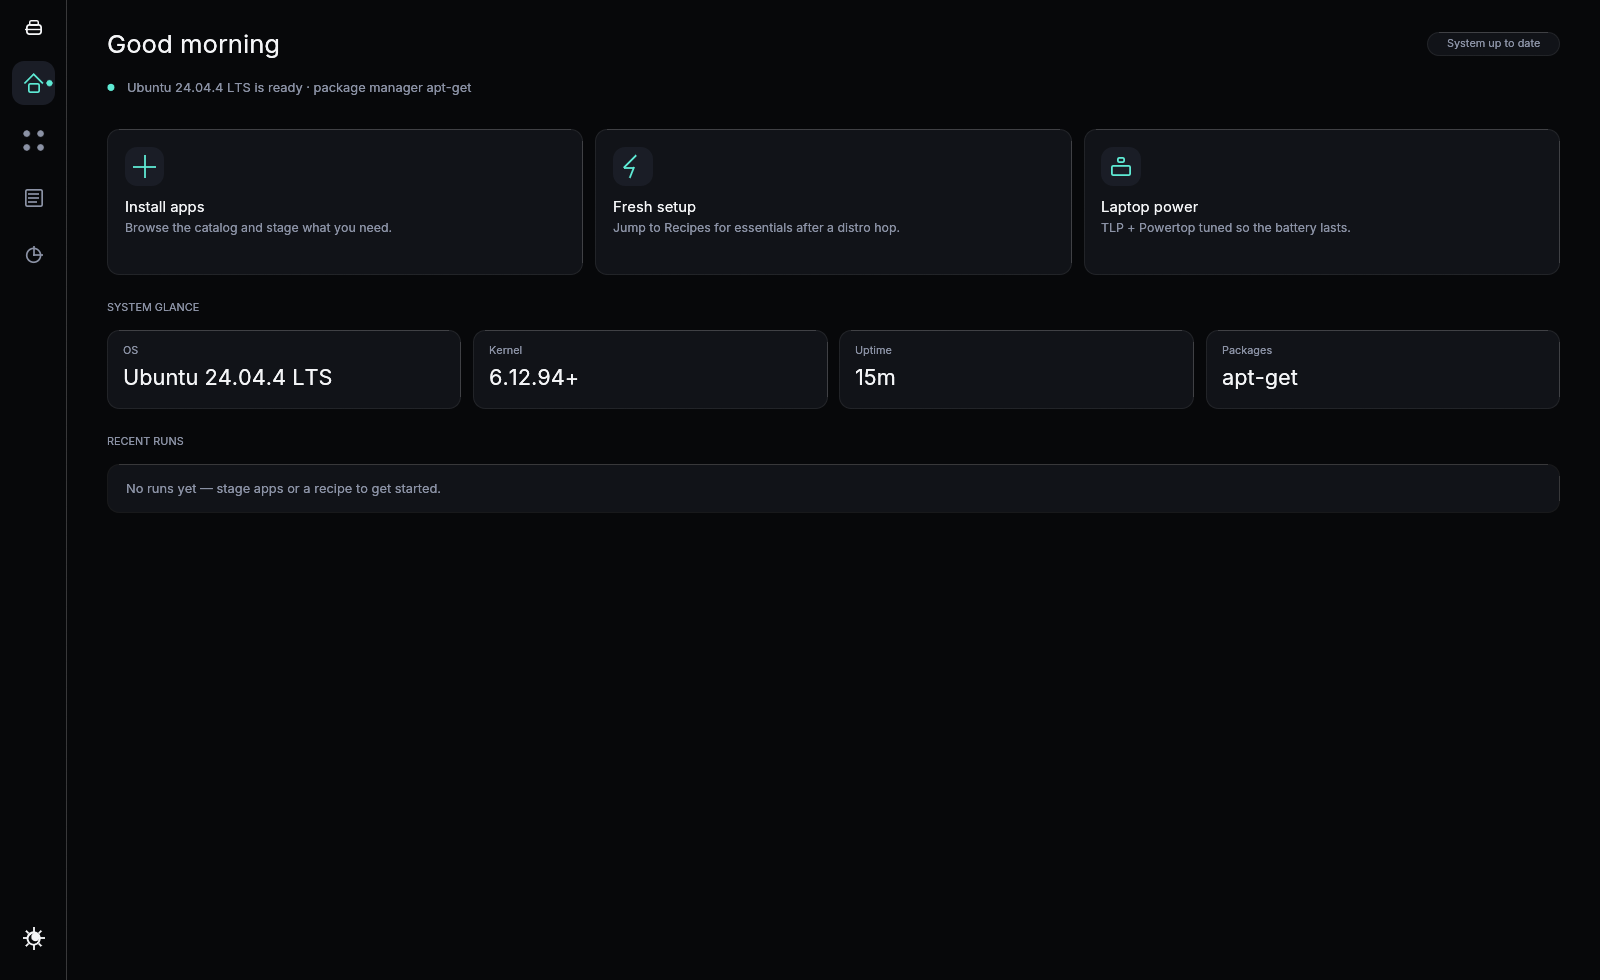
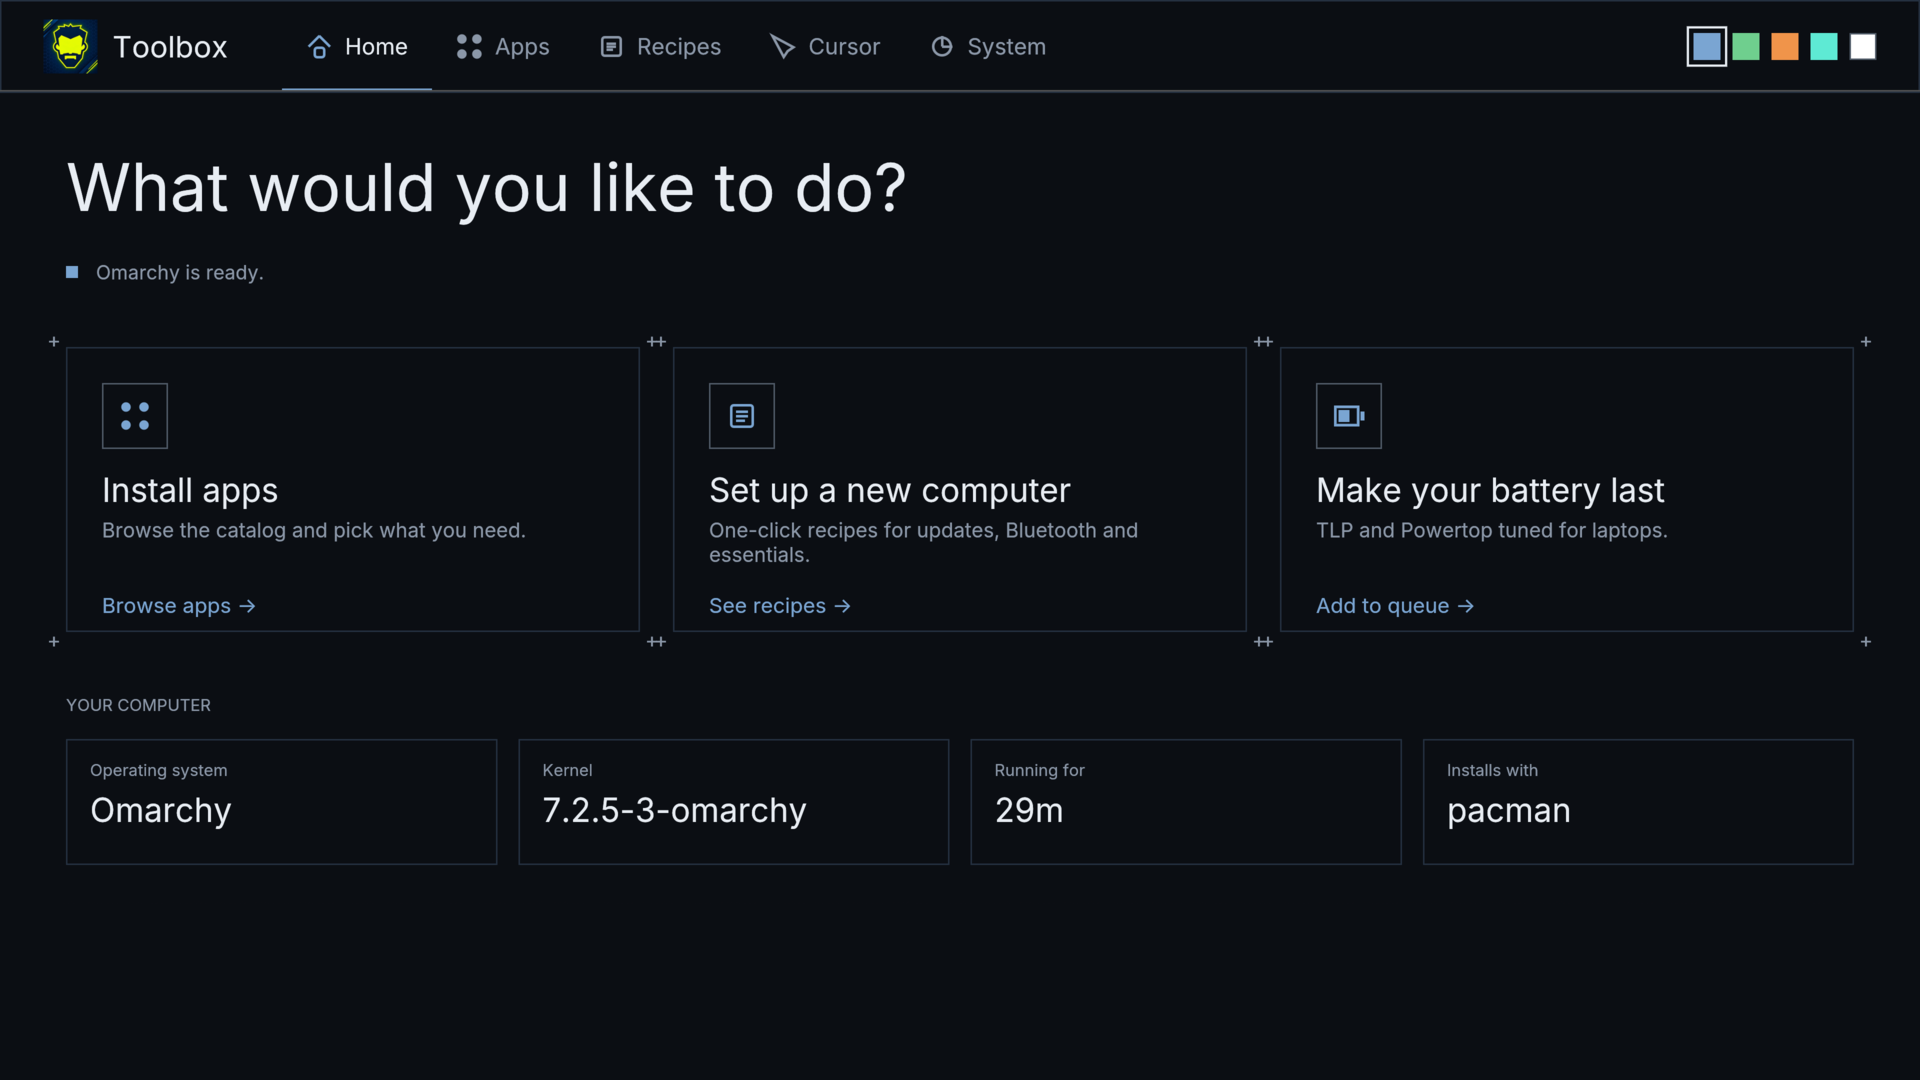
Refresh the README screenshots and copy for the redesign.

diff --git a/README.md b/README.md
@@ -15,12 +15,12 @@ A fast Rust desktop app for installing or removing apps, changing your mouse cur
 
 ## ✨ What It Does
 
-- **Home** dashboard with install/setup intents, a live system glance, and recent runs
-- **Apps** to install or remove native packages and Flatpaks, with a Run Dock when items are staged
+- **Home** with three quick tasks (install apps, set up a new computer, make your battery last), your computer at a glance, and recent activity
+- **Apps** to install or remove native packages and Flatpaks, with a floating queue pill when items are staged
 - **Recipes** for one-click admin playbooks (updates, Bluetooth, TLP, Powertop, and more)
 - **Cursor** to apply a Bibata theme or the KDE Plasma cursor on GNOME or Omarchy (Hyprland) immediately, or stage it with app installs and removes
-- **System** page with live machine details
-- **Blue Dark** by default, with Green, Orange, and Teal skins and a light/dark toggle on the rail
+- **System** page with live processor, memory, and storage details
+- **Blue** by default, with Green, Orange, Teal, and a white Light skin picked from the swatches in the top bar
 - Works across multiple distros
 
 ## 🚀 Quick Start
@@ -43,11 +43,11 @@ curl --proto '=https' --tlsv1.2 -sSf https://sh.rustup.rs | sh
 
 ## 📖 Usage
 
-1. Use the rail: **Home**, **Apps**, **Recipes**, **Cursor**, or **System**
-2. On **Apps**, switch **Install** or **Remove**, then stage what you need
+1. Use the tabs along the top: **Home**, **Apps**, **Recipes**, **Cursor**, or **System**
+2. On **Apps**, switch **Install** or **Uninstall**, then stage what you need
 3. On **Recipes**, stage the playbooks you want to run
-4. On **Cursor**, **Apply** installs a Bibata theme or the KDE Plasma cursor if needed and sets it immediately. **Stage** adds that theme to the Run Dock so it runs in one shot with installs and removes
-5. When the **Run Dock** appears, click **Review & Run**, enter your sudo password when a staged task needs it, and follow progress in the **Run Drawer** (then Dismiss when you are done)
+4. On **Cursor**, **Use ... now** installs a Bibata theme or the KDE Plasma cursor if needed and sets it immediately. **Add to queue** adds that theme to the queue so it runs in one shot with installs and removes
+5. When the queue pill appears, click **Review & run**, enter your password when a queued task needs it, and follow progress in the drawer on the right (then Close when it says All done)
 
 ![Apps](Screenshot/readme-apps-dark.png)
 
